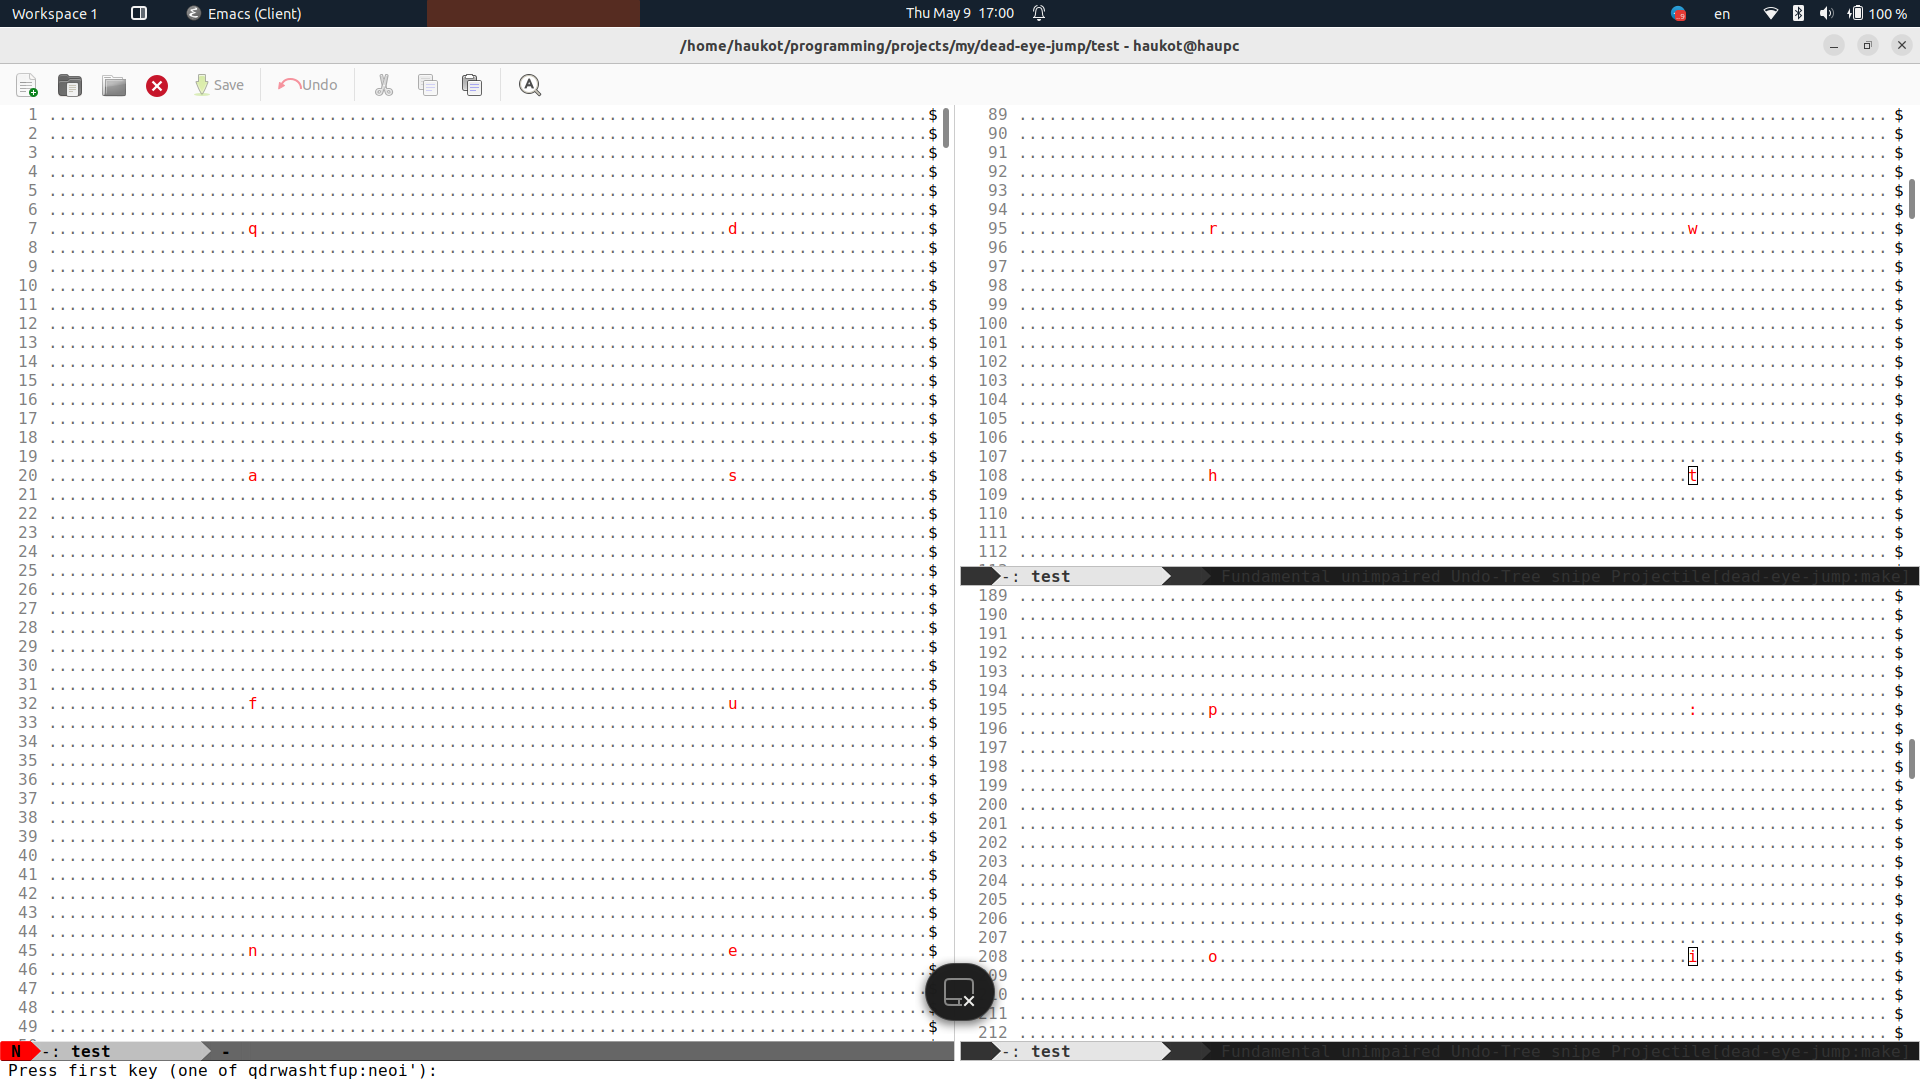
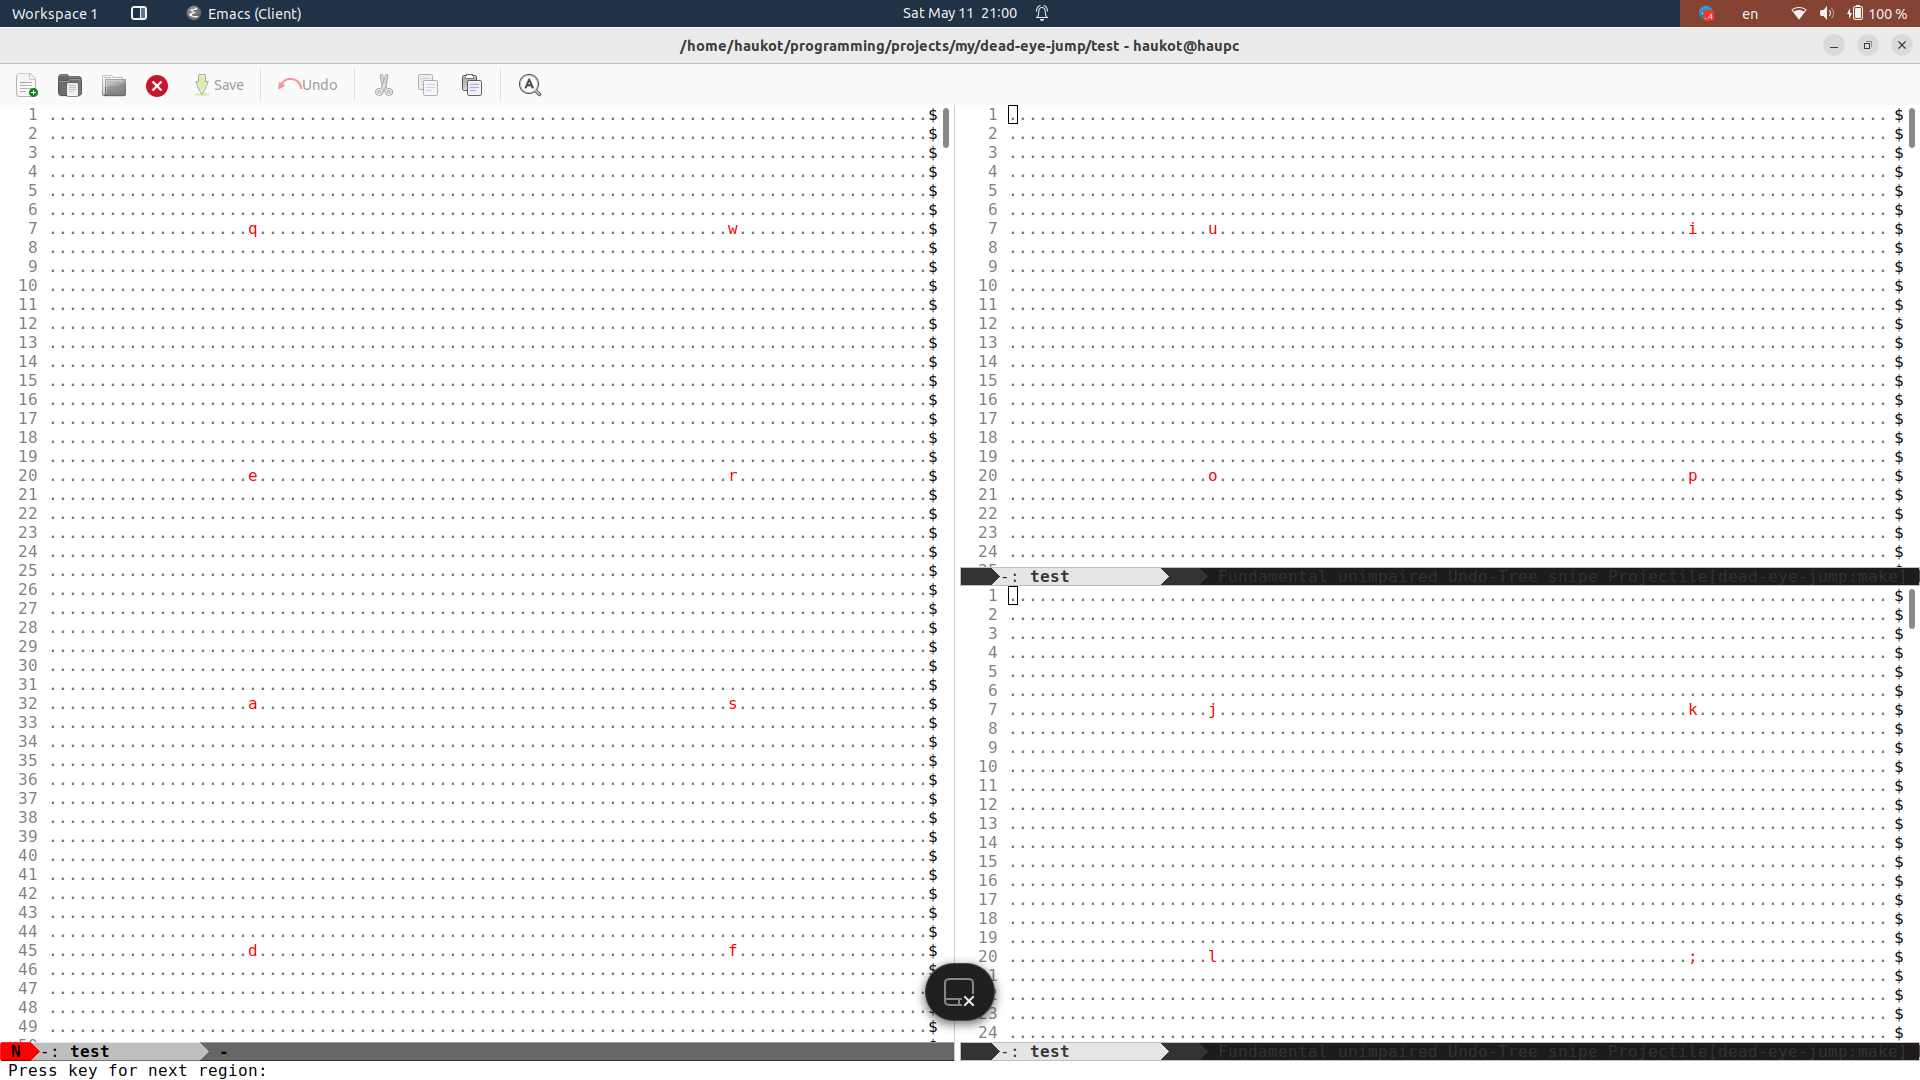
update readme

diff --git a/README.md b/README.md
@@ -8,14 +8,19 @@ And in 3 keys you could move(almost exactly) where you want on the screen.
 
 Add to config
 ```eslisp
-;; your keys to navigate
-(setq dead-eye-jump-keys '("q" "d" "r" "w" "a" "s" "h" "t" "f" "u" "p" ":" "n" "e" "o" "i"))
+;; optionally add your keys to navigate
+;; (setq dead-eye-jump-keys '("q" "w"  "u" "i"
+;;                            "e" "r"  "o" "p"
+;;                            "a" "s"  "j" "k"
+;;                            "d" "f"  "l" ";"))
+
+;; add keybdinging
 (global-set-key (kbd "C-j") 'dead-eye-jump)
 ```
 
 `C-j <char> <char> <char>`
 
-Examples (on Workman keyboard layout, you could set Querty keys):
+Examples:
 
 `C-j`
 ![1](./assets/1.png)
@@ -28,6 +33,36 @@ Press `h`
 
 Press `u`
 ![4](./assets/4.png)
+
+# Configuration
+
+```eslisp
+(defcustom dead-eye-jump-background t
+  "When non-nil, a gray background will be added during the selection."
+  :type 'boolean)
+
+(defcustom dead-eye-jump-keys
+  '("q" "w"  "u" "i"
+    "e" "r"  "o" "p"
+    "a" "s"  "j" "k"
+    "d" "f"  "l" ";")
+  "Keys to use for jump"
+  :type 'list)
+
+(defcustom dead-eye-jump-repeats 3
+  "Number of times to repeat the jump."
+  :type 'integer)
+
+(defvar dead-eye-jump--overlays-lead nil
+  "Hold overlays for leading chars.")
+
+(defvar dead-eye-jump--overlays-back nil
+  "Hold overlays for when `dead-eye-jump-background' is t.")
+
+(defface dead-eye-jump-background-face
+  '((t (:foreground "gray40")))
+  "Face for whole window background during selection.")
+```
 
 # TODO
 
